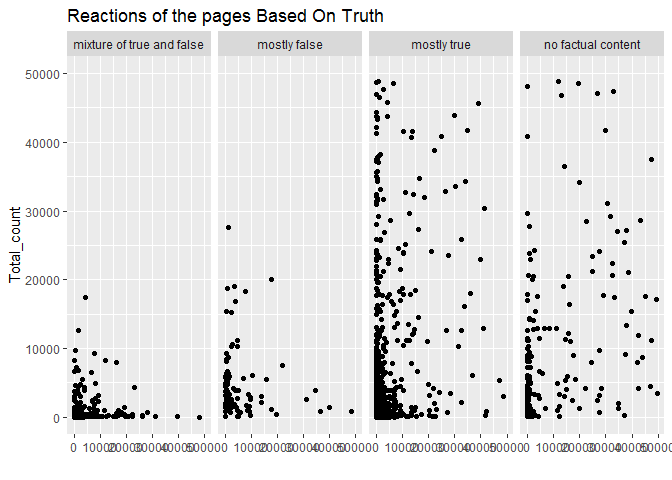
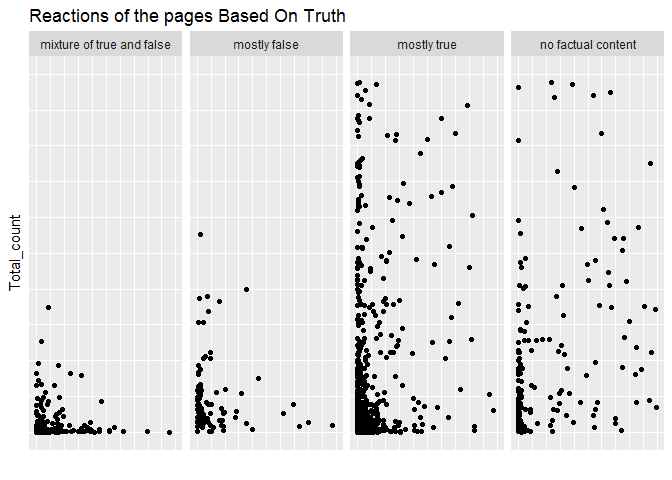
pre talk 1

diff --git a/facebook_factcheck.md b/facebook_factcheck.md
@@ -268,6 +268,8 @@ ggplot(fb, aes(x=Page,fill= Rating))+
 ``` r
 ggplot(fb,aes(x=Post.Type,y= reaction_count, col=Rating))+
   geom_point(position = "jitter")+
+  facet_grid(~ Rating)+
+  coord_cartesian(ylim=c(0,50000))+
   ggtitle("Truth Ratings Based on Post Type")
 ```
 
@@ -294,7 +296,9 @@ ggplot(fb,aes(x=Rating, group=Page))+
     scale_y_continuous(labels = scales::percent)+
   coord_flip()+
   guides(fill=FALSE)+
-  ggtitle("Percent of Truth Ratings Based on Pages")
+  ggtitle("Percent of Truth Ratings Based on Pages")+
+  theme(axis.ticks = element_blank(), 
+        axis.text = element_blank())
 ```
 
 ![](facebook_factcheck_files/figure-markdown_github/unnamed-chunk-4-1.png)
@@ -309,7 +313,9 @@ ggplot(fb,aes(x=Rating, group=Category))+
     scale_y_continuous(labels = scales::percent)+
   coord_flip()+
   guides(fill=FALSE)+
-  ggtitle("Percent of Truth Ratings Based on Partisain Leaning")
+  ggtitle("Percent of Truth Ratings Based on Partisain Leaning")+
+  theme(axis.ticks = element_blank(), 
+        axis.text = element_blank())
 ```
 
 ![](facebook_factcheck_files/figure-markdown_github/unnamed-chunk-4-2.png)
@@ -332,6 +338,8 @@ ggplot(fb)+
   xlim(0,50000)+
   ylim(0,50000)+
   labs(x="")+
+  theme(axis.ticks = element_blank(), 
+        axis.text = element_blank())+
   ggtitle("Reactions of the pages Based On Truth")
 ```
 
